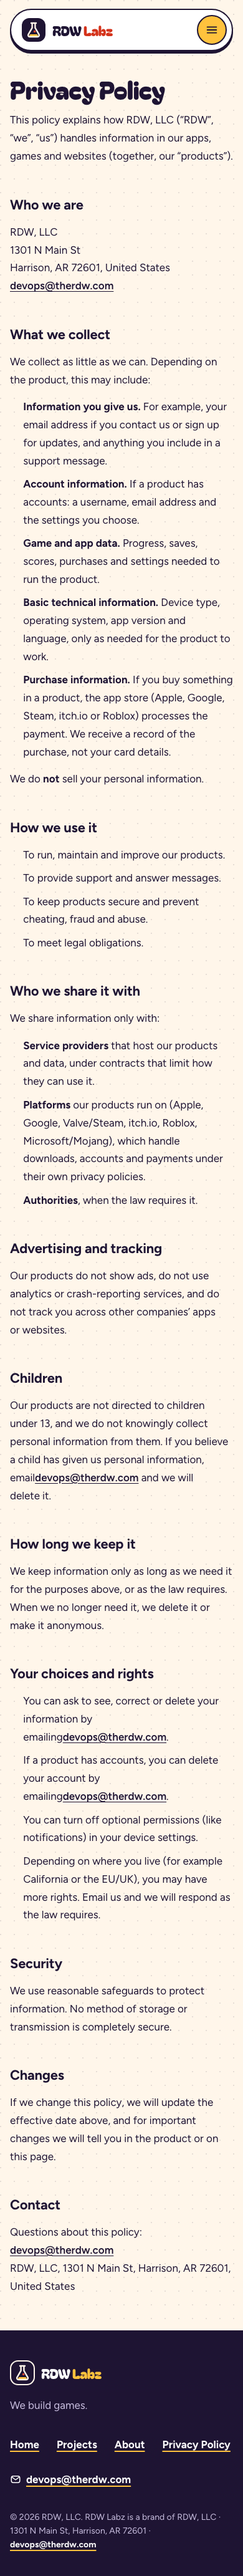
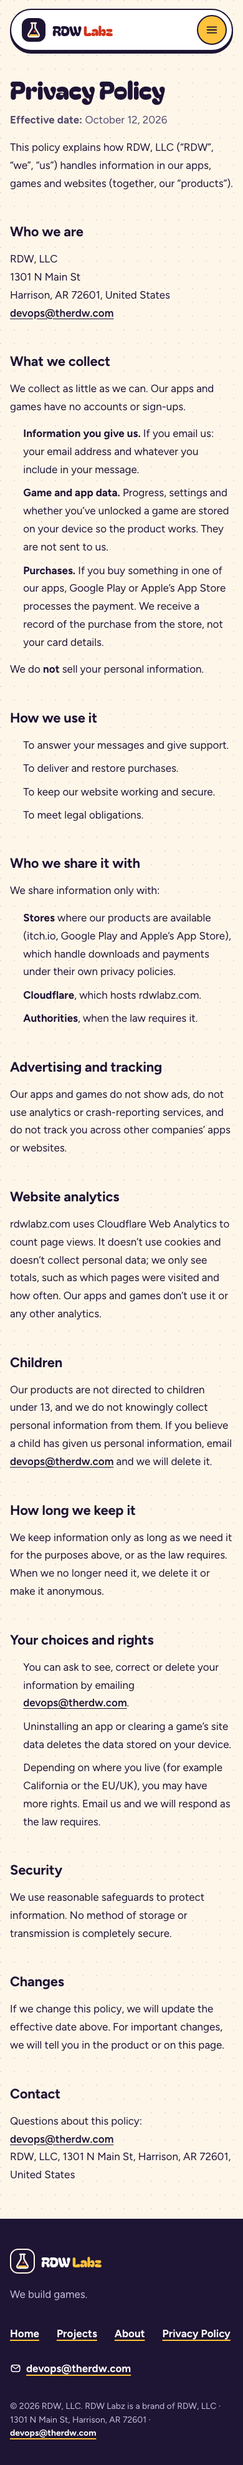
Privacy: website analytics, effective date, only clauses we use; regenerate OG image
- Effective date October 12, 2026 (shown)
- New Website analytics section (Cloudflare Web Analytics, cookie-free, aggregate)
- Drop account/notification clauses and Steam/Roblox/Microsoft; keep Play/Apple purchases
- Fix missing spaces before mailto links (Astro whitespace compression)
- og.png from live data: We build games. / A brand of RDW, LLC, in Bagel Fat One

diff --git a/tests/site.spec.ts b/tests/site.spec.ts
@@ -346,6 +346,19 @@ test('privacy: RDW, LLC policy with the right contact, no leftovers, no motion',
   await expect(main.locator('address')).toContainText('1301 N Main St');
   await expect(main.locator('address')).toContainText('Harrison, AR 72601, United States');
   await expect(main).not.toContainText(/Cluer|operations@|601 US 62|\[DATE\]|TODO|GoDaddy|Draft/);
+  await expect(main.locator('.policy__date')).toHaveText('Effective date: October 12, 2026');
+  // Only stores we ship on; no clauses for features no product has.
+  await expect(main).not.toContainText(
+    /Steam|Valve|Roblox|Mojang|Microsoft|username|your account/i,
+  );
+  await expect(main).toContainText('itch.io, Google Play and Apple’s App Store');
+  await expect(main).toContainText(`personal information, email ${shelf.site.contactEmail} and`);
+  await expect(main).toContainText(`information by emailing ${shelf.site.contactEmail}.`);
+  const analytics = page.getByRole('heading', { level: 2, name: 'Website analytics' });
+  await expect(analytics).toHaveCount(1);
+  await expect(analytics.locator('xpath=following-sibling::p[1]')).toContainText(
+    'rdwlabz.com uses Cloudflare Web Analytics',
+  );
   for (const a of await main.locator('a[href^="mailto:"]').all()) {
     await expect(a).toHaveAttribute('href', MAILTO);
   }

diff --git a/docs/PREFLIGHT.md b/docs/PREFLIGHT.md
@@ -9,7 +9,7 @@ Status key: PASS · FAIL · BLOCKED · NOT RUN · N/A (with reason)
 | Criterion | Scope | Status | Evidence | Open issue |
 |---|---|---|---|---|
 | Scope matches v1 | Home, Projects, About, Privacy Policy, 404; footer mailto only; no forms, CMS, logins, store or blog | PASS | `dist/` contains only `index.html`, `projects.html`, `about.html`, `privacy.html`, `404.html` + assets. The e2e test "dev-only routes are not in the production build" passes | — |
-| Ownership (Apple review) | Footer on every page, About, Privacy | PASS | e2e checks the exact footer line on all 5 pages ("© <year> RDW, LLC. RDW Labz is a brand of RDW, LLC · 1301 N Main St, Harrison, AR 72601 · devops@therdw.com"), About/Privacy links in footer, mobile menu and sitemap, and the year updating (fixed clock 2031). Privacy page has no Cluer, old address/email, `[DATE]` or TODO text | Privacy effective date is still TODO (hidden on the page); policy says "no analytics" while the CF beacon is optional |
+| Ownership (Apple review) | Footer on every page, About, Privacy | PASS | e2e checks the exact footer line on all 5 pages ("© <year> RDW, LLC. RDW Labz is a brand of RDW, LLC · 1301 N Main St, Harrison, AR 72601 · devops@therdw.com"), About/Privacy links in footer, mobile menu and sitemap, and the year updating (fixed clock 2031). Privacy page: effective date October 12, 2026; no Cluer, old address/email, `[DATE]` or TODO text; only itch.io, Google Play and Apple named; no account clauses (no product has accounts); "Website analytics" section for Cloudflare Web Analytics | Keep the policy, App Store privacy details and the Play Data safety form in step if a product adds accounts, analytics or ads |
 | No invented facts | All copy and data | PASS | Every unknown is a `TODO:` in `src/data/projects.json` and renders as "coming soon" UI. Entries whose name is TODO are never shown or counted; categories with 0 real projects show "Coming soon" instead of a count, and their filter chip has no count badge (e2e "placeholder entries are never shown or counted"). The hero eyebrow was changed from "Indie dev lab" to "Hello from the lab" (Review pass 1 #3) | Real content is needed (see the TODOs below) |
 | Contact | Header Contact pill + mobile menu, hero, Work with us, CTA band, footer, 404 | PASS | `site.contactEmail` is `devops@therdw.com`. e2e on all 3 pages: every mailto is `mailto:devops@therdw.com`, there's no "Email coming soon" text, and the header and footer link to it. Hero, Work with us, CTA band and 404 each have one. The built HTML has no `TODO@` left | The address is on therdw.com, not rdwlabz.com (Braden's choice, 2026-10-12) |
 | Design-system consistency | Tokens, primitives, all pages | PASS (manual review) | `/_gallery` (dev only) with screenshots in `docs/screenshots/gallery/`. Review pass 1 checked the pages against `docs/ART-DIRECTION.md` | — |
@@ -30,8 +30,8 @@ Status key: PASS · FAIL · BLOCKED · NOT RUN · N/A (with reason)
 | Cross-browser and real devices | Safari, Firefox, iOS, Android | NOT RUN | Only Playwright Chromium was used | Spot-check before launch |
 | Lint / types / tests / build | Whole repo | PASS | `npm run lint` clean; `astro check` 0 errors, 0 warnings, 0 hints; `astro build` OK; `npx playwright test` (2026-10-12, Apple prep): 113 passed, 1 skipped (empty-shelf variant), incl. 15 screenshot runs | — |
 | Console and network errors | All 3 pages + client navigation | PASS | e2e collects `pageerror`, console errors and failed requests on every page; the motion probe reports 0 errors | — |
-| SEO basics | Titles, descriptions, canonical, OG/Twitter, favicons, manifest, sitemap, robots | PASS | e2e "SEO: canonical, OG tags, sitemap, robots, favicons" | `public/og.png` text is hard-coded in `scripts/make-icons.mjs` ("We build software, games, mods and asset packs."). To change it for a new tagline, edit the script and rerun it |
-| Analytics | Cloudflare Web Analytics | BLOCKED | The snippet renders only when `PUBLIC_CF_BEACON_TOKEN` is set at build time | Needs Braden to enable Web Analytics and set the token in Cloudflare Pages |
+| SEO basics | Titles, descriptions, canonical, OG/Twitter, favicons, manifest, sitemap, robots | PASS | e2e "SEO: canonical, OG tags, sitemap, robots, favicons" | `public/og.png` ("We build games." / "A brand of RDW, LLC · Harrison, AR", Bagel Fat One) is built from the live data by `node scripts/make-icons.mjs`; rerun it when the active categories change |
+| Analytics | Cloudflare Web Analytics | ENABLED (by Braden, Pages auto-injection) | Not verified by the agent (no deploy access). The repo's own snippet stays off because `PUBLIC_CF_BEACON_TOKEN` is unset | Check the beacon request on the live site after deploy |
 | Asset rights | All images, icons, fonts | PASS | `docs/ASSETS.md`: all art is original SVG/CSS; fonts are SIL OFL 1.1; no third-party game art, logos or trademarks; no AI or stock imagery | Log real project images in `docs/ASSETS.md` when they're added |
 | Secrets | Code, logs, docs | PASS | No keys or tokens in the repo; the beacon token is env-only | — |
 | Dependency audit | `npm audit` | PASS (prod) | `npm audit --omit=dev`: 0. Full audit: 17 dev-only issues through `@lhci/cli` (not shipped) | — |
@@ -48,7 +48,7 @@ Status key: PASS · FAIL · BLOCKED · NOT RUN · N/A (with reason)
 - Putt Drop (now in its repo's `rdwlabz.json`): `url`, `oneLiner`, `accentColor` and `image`.
 - Project 2: blank in the update, so nothing was added.
 - `site.launchDate`, `site.workWithUs` (optional) and the 4 category blurbs.
-- `public/og.png` text, if the tagline changes (`scripts/make-icons.mjs`). The OG image still uses the Round 1 heading font (Bricolage); regenerating it in Bagel Fat One is optional.
+- `public/og.png`: rerun `node scripts/make-icons.mjs` when the active categories change (it reads the live data).
 - Putt Drop now comes from its repo: merge [RDW-Labz/putt-drop#1](https://github.com/RDW-Labz/putt-drop/pull/1), set the sync secrets, run **Sync projects**, then merge the sync PR. Until then the shelf is empty (Projects shows a "still building" state; Home hides the Lab activity strip).
 
 DNS: done (Cloudflare).

diff --git a/docs/PROGRESS.md b/docs/PROGRESS.md
@@ -22,6 +22,7 @@
 | 2026-10-12 | Sync PR #2 fix            | Done (local) | Sync run 38311256964 left PR #2 open: the home axe test (`smoke.spec.ts`) scanned mid-fade hero tokens (a race that also failed 9/10 locally on main's data); it now settles motion first like `site.spec.ts` (shared `tests/helpers.ts`). The PR's "Rogue Snow: Everwinter" was a false listing: the detector read this repo's own test fixtures (Steam id 1234560 belongs to another developer's game). Detectors now ignore test/fixture/example/sample folders; regression test scans this repo's real file list. Live dry run: only Putt Drop. Lint clean, build 0 errors, e2e 68 passed / 1 skipped; axe tests 40/40 on repeat. |
 | 2026-10-12 | Sync PR step fix          | Done (local) | Run 38312654078 failed with git exit 128: `git add -- public/projects` errors when no synced images exist yet (folder absent). The PR step now adds `public/projects` only when git sees files there. Reproduced the 128 locally with a missing path; YAML parses. Closed stale PR #2 (false Rogue Snow entry); the next run opens a fresh PR. |
 | 2026-10-12 | Apple review prep         | Done (local) | Footer on every page: "© year RDW, LLC. RDW Labz is a brand of RDW, LLC · address · email" (year auto-updates) + About / Privacy Policy links. New `/about` and `/privacy` (ported from ship-pipeline `docs/site/privacy-policy.md`; effective date TODO, hidden) in footer, mobile menu, sitemap. Empty categories hidden everywhere; one active category → Home spotlight. Tracker: itch.io pages count as live listings (released, "Play free on itch.io"); `statusLabel` + real `screenshots` overrides; hand edits in `projects.json` are fingerprinted and pinned, never overwritten. Dormant Red (itch, Web) and Putt Drop ("Coming to Google Play", 2 screenshots) synced via [dormant-red#5](https://github.com/RDW-Labz/dormant-red/pull/5) and [putt-drop#3](https://github.com/RDW-Labz/putt-drop/pull/3) (not merged). Lint clean, build 0 errors, tests 113 passed / 1 skipped, screenshots 1440/768/390 reviewed. |
+| 2026-10-12 | Privacy + OG fixes        | Done (local) | Privacy: effective date October 12, 2026 (shown); "Website analytics" section (Cloudflare Web Analytics, cookie-free aggregate page views; apps/games use none). Checked our shipped products: Putt Drop (Android) has one Google Play purchase, no login, data on device; Dormant Red (web, itch.io) has no network calls, storage or accounts. So account clauses, notifications and Steam/Roblox/Microsoft names were removed; purchases kept (Google Play / Apple). `public/og.png` regenerated from live data ("We build games.", "A brand of RDW, LLC · Harrison, AR", Bagel Fat One). Live sync dry run after merging putt-drop#3 and dormant-red#5: no data change. |
 
 ## Baseline (step 1, run 2026-10-12)
 

diff --git a/docs/ASSETS.md b/docs/ASSETS.md
@@ -21,7 +21,7 @@ No text or controls are baked into images, except the OG image, which is a link 
 | `src/components/Icon.astro` (12 icons) | Agent, 2026-10-12 | Hand-written SVG paths | Original work for RDW Labz |
 | `src/components/home/LabBench.astro` | Agent, 2026-10-12 | Inline SVG + CSS | Original work for RDW Labz |
 | `src/pages/404.astro` illustration | Agent, 2026-10-12 | Inline SVG | Original work for RDW Labz |
-| `public/favicon.ico`, `favicon-32.png`, `apple-touch-icon.png`, `icon-192.png`, `icon-512.png`, `og.png` | `node scripts/make-icons.mjs` | Rendered from `public/favicon.svg` in headless Chromium | Original work; OG uses Bricolage Grotesque + Figtree (SIL OFL 1.1) |
+| `public/favicon.ico`, `favicon-32.png`, `apple-touch-icon.png`, `icon-192.png`, `icon-512.png`, `og.png` | `node scripts/make-icons.mjs` | Rendered from `public/favicon.svg` in headless Chromium | Original work; OG uses Bagel Fat One (local subset) + Figtree (SIL OFL 1.1), copy from `src/data/projects.json` |
 | `src/assets/fonts/BagelFatOne-Latin.woff2` (display, 24 KB) | Bagel Fat One © 2022 The Bagel Fat Project Authors, from the Google Fonts repo (`ofl/bagelfatone/BagelFatOne-Regular.ttf`) | Subset with `pyftsubset` to the Google "latin" unicode ranges, all layout features kept, woff2 | SIL OFL 1.1, no Reserved Font Name (so subsetting and renaming aren't restricted). License text: `src/assets/fonts/BagelFatOne-OFL.txt` |
 | Font: Figtree (body) | Google Fonts via Astro Fonts API (self-hosted at build) | — | SIL Open Font License 1.1 |
 | Study-only fonts (dev route only, not shipped): Bricolage Grotesque (Round 1 display), Lilita One, Fredoka, Pixelify Sans, Space Grotesk, Unbounded, IBM Plex Mono | Google Fonts | — | SIL OFL 1.1 |

diff --git a/README.md b/README.md
@@ -115,14 +115,14 @@ The `site` block holds the tagline, contact email, launch date and an optional "
 
 ## Analytics
 
-Cloudflare Web Analytics is included only when `PUBLIC_CF_BEACON_TOKEN` is set at build time (as a Cloudflare Pages environment variable). Without it, no analytics script ships.
+Cloudflare Web Analytics is on for the Pages project and Cloudflare injects the beacon automatically (cookie-free, aggregate page views). The privacy policy says so in "Website analytics". Leave `PUBLIC_CF_BEACON_TOKEN` unset while automatic injection is on, or every page view counts twice; it's only for hosting without auto-injection.
 
 ## Go live (Braden only; the agent doesn't push, deploy or touch DNS)
 
 1. Push this repo to your Git host.
 2. Cloudflare dashboard → Workers & Pages → Create → Pages → connect the repo. Build command `npm run build`, output directory `dist`, Node 22.12+.
 3. Custom domains → add `rdwlabz.com` (and `www` if you want it), DNS is already on Cloudflare, so the record is created for you when you confirm.
-4. Web Analytics → add the site → copy the token → set `PUBLIC_CF_BEACON_TOKEN` in the Pages project's environment variables → redeploy.
+4. Web Analytics: enabled on the Pages project (automatic injection). No token needed.
 5. Before launch, fill in the TODOs in `src/data/projects.json` (see `docs/PREFLIGHT.md`).
 
 ## Docs
